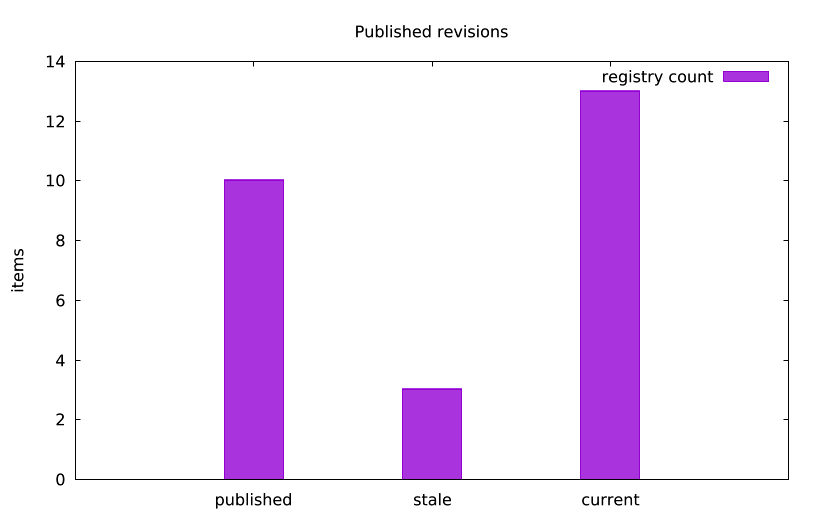
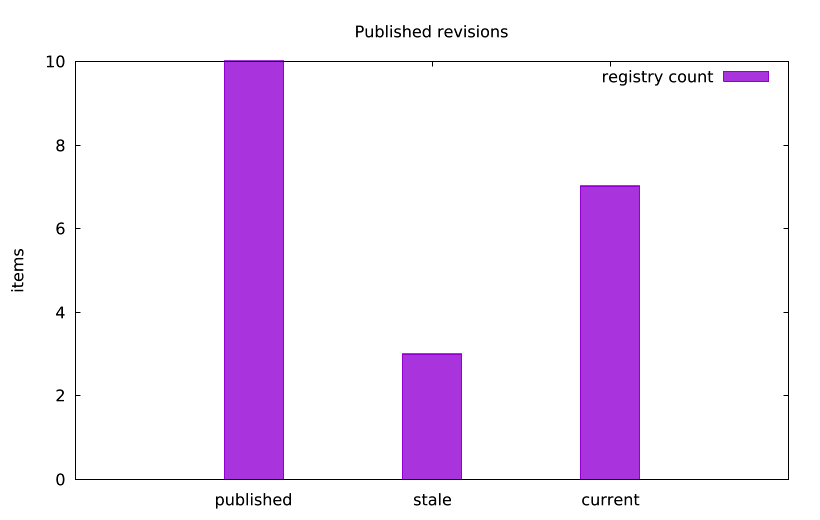
Make crash evidence and gallery counts reflect confirmed registry facts
Exercise real partial H2 writes, compaction interruption and write failure in
an isolated test FileStore bridge. Keep leases in persistent rows rather than
an unbounded owner-memory map. Reject conflicting batch outcomes atomically.
Derive gallery counts from actual observations and never pre-record a publication
that has no receipt.

Constraint: All faults and examples operate on throwaway synthetic local data
Confidence: high
Scope-risk: moderate
Tested: Managed core 55 assertions, journal 13 assertions; process fault harness 17 checks; gallery and six fake-publication scenarios
Not-tested: Final rebuilt native gate and five-platform dispatch pending

diff --git a/src/main/java/ai/lmctl/lmfiles/Store.java b/src/main/java/ai/lmctl/lmfiles/Store.java
@@ -17,6 +17,7 @@ public final class Store implements AutoCloseable {
     private final Path path;
     private final String namespace;
     private MVStore db;
+    private LmfilesFaultFileStore faultFile;
     private FileChannel lockChannel;
     private FileLock lock;
     private MVMap<Long,byte[]> items,events;
@@ -24,8 +25,8 @@ public final class Store implements AutoCloseable {
     private MVMap<String,String> meta,differences,frontier,claims,activeClaims,replay,dictionary;
     private boolean closed;
     private long examined;
-    private final Map<String,Long> deadlines=new HashMap<>();
-    private Map<String,Long> deadlineUndo;
+    private final String ownerEpoch=UUID.randomUUID().toString();
+    private final long ownerStarted=System.nanoTime();
     private final Set<Snapshot> snapshots=Collections.newSetFromMap(new IdentityHashMap<>());
 
     public Store(Path path,String namespace,String options) {
@@ -39,16 +40,19 @@ public final class Store implements AutoCloseable {
             try {lock=lockChannel.tryLock();}catch(OverlappingFileLockException e){throw new IllegalStateException("writer-busy");}
             if(lock==null)throw new IllegalStateException("writer-busy");
             // Default FileStore uses positional FileChannel I/O, never a mapped backend.
-            db=new MVStore.Builder().fileName(this.path.toString()).cacheSize((int)cache).compress().autoCommitDisabled().open();
+            String fault=System.getenv("LMFILES_KILL_POINT");
+            var builder=new MVStore.Builder().cacheSize((int)cache).compress().autoCommitDisabled();
+            if(Set.of("mid_commit","mid_compaction","disk_full").contains(fault==null?"":fault)){
+                faultFile=new LmfilesFaultFileStore(fault);faultFile.open(this.path.toString(),false,null);builder.fileStore(faultFile);
+            } else builder.fileName(this.path.toString());
+            db=builder.open();
             items=db.openMap("items");events=db.openMap("events");aliases=db.openMap("aliases");
             meta=db.openMap("meta");differences=db.openMap("differences");frontier=db.openMap("frontier");
             claims=db.openMap("claims");activeClaims=db.openMap("active_claims");replay=db.openMap("replay");dictionary=db.openMap("dictionary");
             if(!meta.containsKey("format")){meta.put("format","1");meta.put("epoch",UUID.randomUUID().toString());meta.put("next_item","0");meta.put("next_event","0");meta.put("next_dict","0");meta.put("next_fence","0");durable();}
             if(!"1".equals(meta.get("format")))throw new IllegalStateException("unsupported-registry-format");
-            // Restart cannot establish elapsed wall time. Conservatively retain every saved
-            // lease for its full original duration from this monotonic owner epoch.
-            for(var c:claims.entrySet()){long duration=Long.parseLong(J.text(J.obj(c.getValue()),"lease_ms","86400000"));deadlines.put(c.getKey(),System.nanoTime()+duration*1000000);}
-            // Old tokens remain fenced once replaced; wall-clock jumps never steal a lease.
+            // Old leases are evaluated lazily against this monotonic owner epoch;
+            // opening a large registry never loads every claim into RAM.
         } catch(Exception e){cleanup();throw new IllegalStateException("cannot-open-registry: "+e.getMessage(),e);}
     }
     private static String required(String s,String field){if(s==null||s.isEmpty()||s.indexOf('\0')>=0)throw new IllegalArgumentException(field+" required, without NUL");return s;}
@@ -61,10 +65,8 @@ public final class Store implements AutoCloseable {
     private void check(){if(closed)throw new IllegalStateException("registry-closed");}
     private long next(String field){long n=Math.addExact(Long.parseLong(meta.getOrDefault(field,"0")),1);meta.put(field,Long.toString(n));return n;}
     private static void kill(String point){if(point.equals(System.getenv("LMFILES_KILL_POINT")))Runtime.getRuntime().halt(77);}
-    private void durable(){kill("before_commit");db.commit();db.sync();kill("after_commit");}
-    private void deadlinePut(String key,long value){if(deadlineUndo!=null&&!deadlineUndo.containsKey(key))deadlineUndo.put(key,deadlines.get(key));deadlines.put(key,value);}
-    private void deadlineRemove(String key){if(deadlineUndo!=null&&!deadlineUndo.containsKey(key))deadlineUndo.put(key,deadlines.get(key));deadlines.remove(key);}
-    private String mutate(Supplier<String> action){check();deadlineUndo=new HashMap<>();try{String r=action.get();durable();return r;}catch(RuntimeException|Error e){db.rollback();for(var entry:deadlineUndo.entrySet())if(entry.getValue()==null)deadlines.remove(entry.getKey());else deadlines.put(entry.getKey(),entry.getValue());throw e;}finally{deadlineUndo=null;}}
+    private void durable(){kill("before_commit");if(faultFile!=null&&!faultFile.point.equals("mid_compaction"))faultFile.armed=true;db.commit();db.sync();kill("after_commit");}
+    private String mutate(Supplier<String> action){check();try{String r=action.get();durable();return r;}catch(RuntimeException|Error e){db.rollback();throw e;}}
     private Map<String,Object> row(String id){byte[] b=items.get(id(id));if(b==null)throw new IllegalArgumentException("unknown-item");return decode(b);}
     private static long id(String s){try{long id=Long.parseLong(s);if(id<=0)throw new NumberFormatException();return id;}catch(NumberFormatException e){throw new IllegalArgumentException("invalid-item-id");}}
     private void save(String id,Map<String,Object> r){items.put(id(id),encode(r));}
@@ -80,7 +82,7 @@ public final class Store implements AutoCloseable {
         if(op.equals("doctor"))return doctor();
         if(op.equals("replay_seen"))return json(Map.of("digest",replay.getOrDefault(a[0],"")));
         if(op.equals("export_records"))return export(Path.of(a[0]));
-        if(op.equals("compact")){kill("before_compaction");db.compactFile(1000);db.sync();kill("after_compaction");return ok();}
+        if(op.equals("compact")){kill("before_compaction");if(faultFile!=null){db.setRetentionTime(0);faultFile.armed=true;}db.compactFile(1000);db.sync();kill("after_compaction");return ok();}
         if(op.equals("stats"))return ok("examined",Long.toString(examined),"items",Long.toString(items.sizeAsLong()),"events",Long.toString(events.sizeAsLong()));
         if(op.equals("apply_records")){try{return PlanLog.apply(this,Path.of(a[0]),Path.of(a[1]));}catch(IOException e){throw new UncheckedIOException(e);}}
         return mutate(()->change(op,a));
@@ -122,7 +124,7 @@ public final class Store implements AutoCloseable {
         String rev=required(text(result,"source_revision"),"source_revision");if(Long.parseLong(rev)<1||Long.parseLong(rev)>Long.parseLong(text(r,"revision")))throw new IllegalArgumentException("invalid-source-revision");
         if(result.containsKey("last_success"))throw new IllegalArgumentException("read-only-last-success");
         String d=stageId(stage,ns,text(result,"slot"),true);var all=stages(r);Map<String,Object> prev=all.containsKey(d)?map(all.get(d)):Map.of();
-        var p=new LinkedHashMap<String,Object>(result);p.remove("stage");p.remove("namespace");p.remove("slot");
+        var p=new LinkedHashMap<String,Object>(result);p.remove("stage");p.remove("namespace");p.remove("slot");p.putIfAbsent("timestamp",Instant.now().toString());Instant.parse(text(p,"timestamp"));
         Map<String,Object> success=map(prev.getOrDefault("last_success",Map.of()));
         if(status.equals("ok")&&(success.isEmpty()||Long.parseLong(rev)>=Long.parseLong(text(success,"source_revision"))))success=new LinkedHashMap<>(p);
         if(!success.isEmpty())p.put("last_success",success);
@@ -156,21 +158,21 @@ public final class Store implements AutoCloseable {
         long until=Math.addExact(System.currentTimeMillis(),lease);List<Object> out=new ArrayList<>();String prefix=index+"\0";Iterator<String> it=frontier.keyIterator(prefix);
         while(it.hasNext()&&out.size()<count){String k=it.next();if(!k.startsWith(prefix))break;String item=frontier.get(k),ck=json(List.of(work,item)),oldToken=activeClaims.get(ck);Map<String,Object> prev=oldToken==null?Map.of():J.obj(claims.get(oldToken));
             if(!prev.isEmpty()&&alive(oldToken))continue;
-            String token=UUID.randomUUID().toString()+":"+next("next_fence");Map<String,Object> c=Map.of("token",token,"item",item,"source_revision",text(row(item),"revision"),"owner",owner,"work",work,"until",Long.toString(until),"lease_ms",Long.toString(lease));
-            if(oldToken!=null){claims.remove(oldToken);deadlineRemove(oldToken);}claims.put(token,json(c));deadlinePut(token,System.nanoTime()+lease*1000000);activeClaims.put(ck,token);out.add(c);
+            String token=UUID.randomUUID().toString()+":"+next("next_fence");Map<String,Object> c=Map.of("token",token,"item",item,"source_revision",text(row(item),"revision"),"owner",owner,"work",work,"until",Long.toString(until),"lease_ms",Long.toString(lease),"owner_epoch",ownerEpoch,"deadline_ns",Long.toString(System.nanoTime()+lease*1000000));
+            if(oldToken!=null)claims.remove(oldToken);claims.put(token,json(c));activeClaims.put(ck,token);out.add(c);
         }
         return json(out);
     }
-    private boolean alive(String token){Long d=deadlines.get(token);return d!=null&&System.nanoTime()<d;}
+    private boolean alive(String token){String raw=claims.get(token);if(raw==null)return false;var c=J.obj(raw);long deadline=ownerEpoch.equals(text(c,"owner_epoch"))?Long.parseLong(text(c,"deadline_ns")):ownerStarted+Long.parseLong(text(c,"lease_ms"))*1000000;return System.nanoTime()<deadline;}
     private String finish(String op,String... a){
         String raw=claims.get(a[0]);if(raw==null)return outcome("fenced-or-expired");var c=J.obj(raw);String ck=json(List.of(text(c,"work"),text(c,"item")));
         if(!a[0].equals(activeClaims.get(ck))||!alive(a[0]))return outcome("fenced-or-expired");
-        if(op.equals("renew")){long lease=Long.parseLong(a[1]);if(lease<1||lease>86400000)throw new IllegalArgumentException("invalid-lease");c.put("until",Long.toString(Math.addExact(System.currentTimeMillis(),lease)));c.put("lease_ms",Long.toString(lease));deadlinePut(a[0],System.nanoTime()+lease*1000000);claims.put(a[0],json(c));return ok();}
+        if(op.equals("renew")){long lease=Long.parseLong(a[1]);if(lease<1||lease>86400000)throw new IllegalArgumentException("invalid-lease");c.put("until",Long.toString(Math.addExact(System.currentTimeMillis(),lease)));c.put("lease_ms",Long.toString(lease));c.put("owner_epoch",ownerEpoch);c.put("deadline_ns",Long.toString(System.nanoTime()+lease*1000000));claims.put(a[0],json(c));return ok();}
         if(op.equals("complete")){
             if(a.length<3||!a[2].equals(text(c,"source_revision"))||!a[2].equals(text(row(text(c,"item")),"revision")))return outcome("conflict");
             var result=J.obj(a[1]);if(!a[2].equals(text(result,"source_revision")))return outcome("conflict");record(text(c,"item"),result);
         }
-        claims.remove(a[0]);deadlineRemove(a[0]);activeClaims.remove(ck);return ok();
+        claims.remove(a[0]);activeClaims.remove(ck);return ok();
     }
 
     public synchronized Cursor query(String operation,String... args){
@@ -195,7 +197,7 @@ public final class Store implements AutoCloseable {
                 Object raw=J.parse(a[1]);if(!(raw instanceof List<?> ids))throw new IllegalArgumentException("ids must be array");if(ids.size()>4096)throw new IllegalArgumentException("subset-too-large: use bounded batches");
                 Map<String,Object> opts=J.obj(a[2]);keys(opts,"stage","namespace","slot","projection");
                 if(opts.containsKey("projection")&&!Set.of("last_success","latest_attempt").contains(text(opts,"projection")))throw new IllegalArgumentException("invalid-projection");
-                if(opts.containsKey("stage"))required(text(opts,"namespace"),"baseline namespace");
+                if(opts.containsKey("stage")){opts.putIfAbsent("namespace",a[0]);required(text(opts,"namespace"),"baseline namespace");}
                 source=ids.stream().map(x->compare(x,view,aliasView,opts)).iterator();
             } else if(op.equals("stage_difference")){
                 Map<String,Object> opts=J.obj(a[2]);keys(opts,"index","require_index","require_matching_source_revision");String name=required(text(opts,"index"),"index");
@@ -205,7 +207,9 @@ public final class Store implements AutoCloseable {
                 String prefix=name+"\0";Iterator<String> keys=fronts.keyIterator(prefix);
                 source=new Iterator<Object>(){String next;boolean ready;public boolean hasNext(){if(!ready&&keys.hasNext()){next=keys.next();ready=true;}return ready&&next.startsWith(prefix);}public Object next(){if(!hasNext())throw new NoSuchElementException();ready=false;examined++;return decode(view.get(id(fronts.get(next))));}};
             } else throw new IllegalArgumentException("unsupported-query: "+op);
-            return new Cursor(source,ownSnapshot?this:null);
+            Iterator<?> values=source;
+            Iterator<Object> guarded=new Iterator<>(){private void valid(){if(ended)throw new IllegalStateException("snapshot-closed");}public boolean hasNext(){valid();return values.hasNext();}public Object next(){valid();return values.next();}};
+            return new Cursor(guarded,ownSnapshot?this:null);
         }
         @Override public void close(){synchronized(Store.this){if(!ended){ended=true;db.deregisterVersionUsage(pin);snapshots.remove(this);}}}
     }
@@ -216,14 +220,14 @@ public final class Store implements AutoCloseable {
         if(bytes==null)return Map.of("identity",identity,"state","unknown","reason","no-item");
         var r=decode(bytes);Map<String,Object> out=new LinkedHashMap<>(r);
         Map<String,Object> stageViews=new TreeMap<>();for(var stage:stages(r).entrySet()){String names=meta.get("dict:"+stage.getKey());stageViews.put(names==null?stage.getKey():names,stage.getValue());}out.put("stages",stageViews);
-        out.put("state","unknown");out.put("reason","no-baseline");
+        out.put("state","unknown");out.put("reason","no-baseline");out.put("basis","none");
         if(opts.containsKey("stage")) {
             Map<String,Object> selector=new LinkedHashMap<>(opts);selector.putIfAbsent("projection","last_success");Map<String,Object> base=projection(r,selector);out.put("recorded",base);
             if(!base.isEmpty()){
                 Object observation=r.get("observation");
                 if(observation instanceof Map<?,?> o&&Boolean.FALSE.equals(o.get("present"))){out.put("state","recorded-but-missing-locally");out.put("reason","observed-absence");}
                 else if(!r.containsKey("content_hash")&&observation==null){out.put("reason","unobserved-local");}
-                else {out.put("state",text(base,"source_revision").equals(text(r,"revision"))?"same-as-recorded":"changed");out.put("reason","revision-comparison");}
+                else {Map<String,Object> fingerprint=map(base.getOrDefault("source_fingerprint",Map.of()));boolean digests=!text(fingerprint,"hash").isEmpty()&&!text(r,"content_hash").isEmpty();boolean same=digests?text(fingerprint,"hash").equals(text(r,"content_hash")):text(base,"source_revision").equals(text(r,"revision"));out.put("state",same?"same-as-recorded":"changed");out.put("reason",digests?"digest-comparison":"revision-comparison");out.put("basis",digests?"digest":"revision");}
             }
         }
         return out;
@@ -249,11 +253,11 @@ public final class Store implements AutoCloseable {
         private final Store store;private final List<Map<String,Object>> operations=new ArrayList<>();private boolean ended;private int bytes;
         Batch(Store store){this.store=store;}
         public Batch add(String operation){if(ended)throw new IllegalStateException("batch-closed");bytes=Math.addExact(bytes,operation.getBytes(StandardCharsets.UTF_8).length);if(bytes>Math.min(MAX_BATCH,Main.memoryBudget()/4))throw new IllegalArgumentException("batch-exceeds-LMFILES_MAX_MEMORY_MB");var op=J.obj(operation);keys(op,"op","args");required(text(op,"op"),"op");if(!(op.get("args") instanceof List<?>))throw new IllegalArgumentException("operation args must be array");operations.add(op);return this;}
-        public String commit(){if(ended)throw new IllegalStateException("batch-closed");synchronized(store){try{return store.mutate(()->{for(var op:operations){List<?> args=(List<?>)op.get("args");store.change(text(op,"op"),args.stream().map(x->{if(!(x instanceof String))throw new IllegalArgumentException("batch args must be strings");return (String)x;}).toArray(String[]::new));}return ok();});}finally{ended=true;operations.clear();}}}
+        public String commit(){if(ended)throw new IllegalStateException("batch-closed");synchronized(store){try{return store.mutate(()->{for(var op:operations){List<?> args=(List<?>)op.get("args");String result=store.change(text(op,"op"),args.stream().map(x->{if(!(x instanceof String))throw new IllegalArgumentException("batch args must be strings");return (String)x;}).toArray(String[]::new));Object receipt=J.parse(result);if(receipt instanceof Map<?,?> m&&m.containsKey("status")&&!"ok".equals(m.get("status")))throw new IllegalArgumentException("batch-operation-"+m.get("status"));}return ok();});}finally{ended=true;operations.clear();}}}
         public void rollback(){ended=true;operations.clear();}
         @Override public void close(){if(!ended)rollback();}
     }
-    private String doctor(){long rows=0;long pendingCount=0;for(var entry:items.entrySet()){Map<String,Object> r=decode(entry.getValue());if(!Long.toString(entry.getKey()).equals(text(r,"item")))throw new IllegalStateException("item-key-corrupt");for(var d:differences.entrySet()){boolean expected=pending(r,J.obj(d.getValue()));if(expected)pendingCount++;if(expected!=frontier.containsKey(frontierKey(d.getKey(),text(r,"item"))))throw new IllegalStateException("frontier-corrupt");}rows++;}if(pendingCount!=frontier.sizeAsLong())throw new IllegalStateException("orphan-frontier");for(var e:events.entrySet())if(!e.getKey().toString().equals(text(decode(e.getValue()),"sequence")))throw new IllegalStateException("event-sequence-corrupt");for(var a:aliases.entrySet())if(!items.containsKey(a.getValue()))throw new IllegalStateException("dangling-alias");return ok("items",Long.toString(rows),"events",Long.toString(events.sizeAsLong()),"examined",Long.toString(examined),"storage","MVStore positional I/O, compressed CRC32C binary records");}
+    private String doctor(){if(items.sizeAsLong()!=Long.parseLong(meta.get("next_item"))||events.sizeAsLong()!=Long.parseLong(meta.get("next_event")))throw new IllegalStateException("record-sequence-gap");long rows=0;long pendingCount=0;for(var entry:items.entrySet()){Map<String,Object> r=decode(entry.getValue());if(!Long.toString(entry.getKey()).equals(text(r,"item")))throw new IllegalStateException("item-key-corrupt");for(var d:differences.entrySet()){boolean expected=pending(r,J.obj(d.getValue()));if(expected)pendingCount++;if(expected!=frontier.containsKey(frontierKey(d.getKey(),text(r,"item"))))throw new IllegalStateException("frontier-corrupt");}rows++;}if(pendingCount!=frontier.sizeAsLong())throw new IllegalStateException("orphan-frontier");for(var e:events.entrySet())if(!e.getKey().toString().equals(text(decode(e.getValue()),"sequence")))throw new IllegalStateException("event-sequence-corrupt");for(var a:aliases.entrySet())if(!items.containsKey(a.getValue()))throw new IllegalStateException("dangling-alias");return ok("items",Long.toString(rows),"events",Long.toString(events.sizeAsLong()),"examined",Long.toString(examined),"storage","MVStore positional I/O, compressed CRC32C binary records");}
     public boolean doctorStatus(){return "ok".equals(text(J.obj(doctor()),"status"));}
     private String export(Path out){
         try {
@@ -274,9 +278,9 @@ public final class Store implements AutoCloseable {
     private String restore(Path input){
         if(!items.isEmpty())throw new IllegalArgumentException("import-requires-empty-registry");long rows=0;boolean end=false;
         try(var lines=Files.newBufferedReader(input)){
-            String first=lines.readLine();if(first==null||!"snapshot".equals(text(J.obj(first),"kind"))||!"1".equals(J.text(J.obj(first),"format","")))throw new IllegalArgumentException("snapshot-header");
-            String line;while((line=lines.readLine())!=null){Map<String,Object> r=J.obj(line);
-                if("end".equals(text(r,"kind"))){if(Long.parseLong(text(r,"rows"))!=rows||lines.readLine()!=null)throw new IllegalArgumentException("snapshot-count");end=true;break;}
+            String first=boundedLine(lines);if(first==null||!"snapshot".equals(text(J.obj(first),"kind"))||!"1".equals(J.text(J.obj(first),"format","")))throw new IllegalArgumentException("snapshot-header");
+            String line;while((line=boundedLine(lines))!=null){Map<String,Object> r=J.obj(line);
+                if("end".equals(text(r,"kind"))){if(Long.parseLong(text(r,"rows"))!=rows||boundedLine(lines)!=null)throw new IllegalArgumentException("snapshot-count");end=true;break;}
                 String checksum=text(r,"checksum");r.remove("checksum");if(!PlanLog.sha(json(r)).equals(checksum))throw new IllegalArgumentException("snapshot-checksum");
                 String name=text(r,"map"),key=text(r,"key");Object v=r.get("value");switch(name){
                     case "items","events" -> {byte[] bytes=Base64.getDecoder().decode(text(map(v),"base64"));decode(bytes);(name.equals("items")?items:events).put(Long.parseLong(key),bytes);}
@@ -289,6 +293,7 @@ public final class Store implements AutoCloseable {
         }catch(IOException e){throw new UncheckedIOException(e);}
         doctor();return ok("rows",Long.toString(rows));
     }
+    private static String boundedLine(BufferedReader reader)throws IOException {StringBuilder out=new StringBuilder();int c;long limit=Math.min(2L*MAX_RECORD,Main.memoryBudget()/4);while((c=reader.read())!=-1){if(c=='\n')return out.toString();if(out.length()>=limit)throw new IllegalArgumentException("snapshot-line-exceeds-memory-budget");out.append((char)c);}return out.isEmpty()?null:out.toString();}
     private static byte[] encode(Map<String,Object> map){try{byte[] raw=json(map).getBytes(StandardCharsets.UTF_8);if(raw.length>Math.min(MAX_RECORD,Main.memoryBudget()/4))throw new IllegalArgumentException("record-exceeds-memory-budget");var zipped=new ByteArrayOutputStream();try(var out=new DeflaterOutputStream(zipped)){out.write(raw);}byte[] data=zipped.toByteArray();CRC32C crc=new CRC32C();crc.update(data);ByteBuffer b=ByteBuffer.allocate(12+data.length);b.putInt(1).putInt(raw.length).putInt((int)crc.getValue()).put(data);return b.array();}catch(IOException e){throw new UncheckedIOException(e);}}
     private static Map<String,Object> decode(byte[] bytes){try{if(bytes.length<12)throw new IllegalStateException("record-truncated");ByteBuffer b=ByteBuffer.wrap(bytes);if(b.getInt()!=1)throw new IllegalStateException("record-version");int length=b.getInt(),check=b.getInt();if(length<0||length>MAX_RECORD)throw new IllegalStateException("record-length");byte[] data=Arrays.copyOfRange(bytes,12,bytes.length);CRC32C crc=new CRC32C();crc.update(data);if(check!=(int)crc.getValue())throw new IllegalStateException("record-checksum");try(var in=new InflaterInputStream(new ByteArrayInputStream(data))){byte[] raw=in.readNBytes(length+1);if(raw.length!=length)throw new IllegalStateException("record-size");return J.obj(new String(raw,StandardCharsets.UTF_8));}}catch(IOException e){throw new IllegalStateException("record-corrupt",e);}}
     private void cleanup(){try{if(db!=null)db.closeImmediately();}catch(Exception ignored){}try{if(lock!=null)lock.release();}catch(Exception ignored){}try{if(lockChannel!=null)lockChannel.close();}catch(Exception ignored){}}

diff --git a/src/main/java/ai/lmctl/lmfiles/Bench.java b/src/main/java/ai/lmctl/lmfiles/Bench.java
@@ -33,16 +33,19 @@ public final class Bench {
                 batch.commit();
             }
         }
-        long buildNs=System.nanoTime()-start,queryNs;int pending=0;String doctor;
+        long buildNs=System.nanoTime()-start,queryNs,subsetNs;int subsetRows=0;int pending=0;String doctor;
         try(Store s=new Store(path,"benchmark","{}")) {
             long t=System.nanoTime();
             try(Store.Cursor c=s.query("stage_difference",a,b,J.str(Map.of("index",index,"require_index",true,"require_matching_source_revision",true)))) {
                 while(true){Object page=J.parse(c.nextJson(256,1048576));List<?> rows=(List<?>)page;if(rows.isEmpty())break;pending+=rows.size();}
             }
-            queryNs=System.nanoTime()-t;doctor=s.call("doctor","{}");
+            queryNs=System.nanoTime()-t;
+            long subsetStart=System.nanoTime();
+            for(int offset=0;offset<Math.min(count,1000);offset+=256){var ids=new ArrayList<String>();for(int n=offset;n<Math.min(Math.min(count,1000),offset+256);n++)ids.add(Integer.toString((int)((long)n*7919%count)+1));try(Store.Cursor c=s.query("query_subset","benchmark",J.str(ids),"{}")){while(true){List<?> rows=(List<?>)J.parse(c.nextJson(256,1048576));if(rows.isEmpty())break;subsetRows+=rows.size();}}}
+            subsetNs=System.nanoTime()-subsetStart;doctor=s.call("doctor","{}");
         }
         if(pending!=Math.max(1,count/100))throw new IllegalStateException("benchmark frontier wrong: "+pending);
         long bytes=Files.size(path);
-        return J.str(Map.of("profile","three explicit aliases plus identity index, five stages, six events/item before pending updates; compact synthetic metadata", "items",count,"disk_bytes",Long.toString(bytes),"bytes_per_item",(double)bytes/count,"build_seconds",buildNs/1e9,"pending",pending,"reopen_query_ms",queryNs/1e6,"doctor",J.parse(doctor),"scope","local measured workload, not 100M qualification"));
+        Map<String,Object> report=new LinkedHashMap<>();report.put("subset_queries",subsetRows);report.put("subset_query_ms",subsetNs/1e6);report.putAll(Map.of("profile","three explicit aliases plus identity index, five stages, six events/item before pending updates; compact synthetic metadata", "items",count,"disk_bytes",Long.toString(bytes),"bytes_per_item",(double)bytes/count,"build_seconds",buildNs/1e9,"pending",pending,"reopen_query_ms",queryNs/1e6,"doctor",J.parse(doctor),"scope","local measured workload, not 100M qualification"));return J.str(report);
     }
 }

diff --git a/src/main/java/ai/lmctl/lmfiles/PlanLogChecks.java b/src/main/java/ai/lmctl/lmfiles/PlanLogChecks.java
@@ -25,6 +25,13 @@ public final class PlanLogChecks {
             rejects(()->{try{PlanLog.apply(s,plan,bad);}catch(java.io.IOException e){throw new RuntimeException(e);}},"wrong digest");
             Path outside=work.resolve("outside.jsonl");var rogue=instruction("outside",item);PlanLog.append(outside,J.str(receipt(rogue,"outside",item,PlanLog.instructionDigest(rogue))),"{}");
             rejects(()->{try{PlanLog.apply(s,plan,outside);}catch(java.io.IOException e){throw new RuntimeException(e);}},"out of plan");
+            Path conflict=work.resolve("conflict.jsonl");PlanLog.append(conflict,J.str(r),"{}");
+            var different=new LinkedHashMap<String,Object>(receipt(p,"different-id",item,PlanLog.instructionDigest(p)));
+            var differentPayload=new LinkedHashMap<String,Object>(io.lmctl.lmcode.Json.object(different.get("payload")));
+            var differentProjection=new LinkedHashMap<String,Object>(io.lmctl.lmcode.Json.object(differentPayload.get("projection")));differentProjection.put("metadata",Map.of("fixture","different"));differentPayload.put("projection",differentProjection);different.put("payload",differentPayload);PlanLog.append(conflict,J.str(different),"{}");
+            rejects(()->{try{PlanLog.apply(s,plan,conflict);}catch(java.io.IOException e){throw new RuntimeException(e);}},"conflicting completion");
+            Path impostor=work.resolve("impostor.jsonl");var wrongItem=new LinkedHashMap<String,Object>(different);var wrongPayload=new LinkedHashMap<String,Object>(differentPayload);var wrongProjection=new LinkedHashMap<String,Object>(differentProjection);wrongProjection.put("item","999");wrongPayload.put("projection",wrongProjection);wrongItem.put("payload",wrongPayload);PlanLog.append(impostor,J.str(wrongItem),"{}");
+            rejects(()->{try{PlanLog.apply(s,plan,impostor);}catch(java.io.IOException e){throw new RuntimeException(e);}},"projection outside planned item");
             Path corrupt=work.resolve("corrupt.jsonl");Files.writeString(corrupt,Files.readString(plan).replace("fixture","changed"));
             rejects(()->{try{PlanLog.unconfirmed(corrupt,outside,remain);}catch(java.io.IOException e){throw new RuntimeException(e);}},"CRC");
             Path bytes=work.resolve("bytes.jsonl");var raw=new LinkedHashMap<String,Object>(p);raw.put("raw_path",Map.of("base64","/w=="));PlanLog.append(bytes,J.str(raw),"{}");ok(Files.readString(bytes).contains("/w=="),"non UTF8 bytes preserved");

diff --git a/src/main/java/ai/lmctl/lmfiles/CoreChecks.java b/src/main/java/ai/lmctl/lmfiles/CoreChecks.java
@@ -16,6 +16,9 @@ public final class CoreChecks {
    String one=id(s.call("item_upsert","{\"id\":\"law-1\"}","{\"title\":\"fixture\"}"));ok(!one.isEmpty(),"dense item");
    reject(()->s.call("alias_add","999","{\"kind\":\"url\",\"namespace\":\"source\",\"value\":\"u\"}"),"unknown alias");
    String a="{\"kind\":\"url\",\"namespace\":\"source\",\"value\":\"https://fixture/law-1\"}";ok("ok".equals(st(s.call("alias_add",one,a))),"alias add");String two=id(s.call("item_upsert","{\"id\":\"law-2\"}","{}"));ok("conflict".equals(st(s.call("alias_add",two,a))),"alias collision");ok("conflict".equals(st(s.call("alias_remove",two,a))),"wrong owner remove");ok("ok".equals(st(s.call("alias_remove",one,a))),"owner remove");
+   s.call("alias_add",one,a);
+   try(Store.Batch b=s.begin()){b.add(J.str(Map.of("op","item_upsert","args",List.of("{\"id\":\"law-1\"}","{\"title\":\"must-rollback\"}"))));b.add(J.str(Map.of("op","alias_add","args",List.of(two,a))));reject(b::commit,"batch conflict");}
+   ok(!page(s.query("query_subset","checks","[\"1\"]","{}")).contains("must-rollback"),"conflicting batch all-or-nothing");
    s.call("observe",one,"{\"present\":true,\"size\":10,\"hash\":\"aaa\"}");reject(()->s.call("item_upsert","{\"id\":\"law-1\"}","{\"item\":\"999\",\"revision\":\"999\"}"),"immutable revision");reject(()->s.call("stage_record",one,"{\"stage\":\"fetched\",\"namespace\":\"source\",\"status\":\"bad\",\"source_revision\":\"1\"}"),"invalid status");reject(()->s.call("stage_record",one,"{\"stage\":\"fetched\",\"namespace\":\"source\",\"status\":\"ok\"}"),"missing revision");
    s.call("stage_record",one,sr("fetched","source","ok","2"));String d=s.call("difference_index","{\"stage\":\"fetched\",\"namespace\":\"source\",\"status\":\"ok\"}","{\"stage\":\"cleaned\",\"namespace\":\"clean\",\"status\":\"ok\"}","{\"id\":\"fetch-clean\",\"require_matching_source_revision\":true}");ok("ok".equals(st(d)),"named index");
    String A="{\"stage\":\"fetched\",\"namespace\":\"source\",\"status\":\"ok\"}",B="{\"stage\":\"cleaned\",\"namespace\":\"clean\",\"status\":\"ok\"}";

diff --git a/scripts/test-processes.py b/scripts/test-processes.py
@@ -84,12 +84,12 @@ def main() -> int:
 
         # A kill at each commit boundary must leave a valid same-DB state. The
         # after-commit point may contain the row; before-commit must not.
-        for point, expect_item in (("before_commit", False), ("after_commit", True)):
+        for point, expect_item in (("before_commit", False), ("mid_commit", False), ("after_commit", True), ("disk_full",False)):
             killed_db = root / f"kill-{point}.mv"
             call("--request", str(killed_db), "doctor")
             killed = call("--request", str(killed_db), "item_upsert", identity, fields,
                           env={"LMFILES_KILL_POINT": point}, check=False)
-            assert killed.returncode == 77, killed.stderr
+            assert killed.returncode == 77 if point!="disk_full" else killed.returncode!=0, killed.stderr
             check = call("--request", str(killed_db), "doctor")
             assert json.loads(check.stdout).get("status") == "ok"
             rows = call("--query", str(killed_db), "query_subset", "cli", json.dumps(["1"]), "{}").stdout
@@ -102,7 +102,8 @@ def main() -> int:
         # Compaction faults preserve a previously acknowledged generation.
         compact_db=root/'compact.mv'
         call('--request',str(compact_db),'item_upsert',identity,fields)
-        for point in ('before_compaction','after_compaction'):
+        for point in ('before_compaction','mid_compaction','after_compaction'):
+            call('--request',str(compact_db),'item_upsert',identity,fields)
             killed=call('--request',str(compact_db),'compact',env={'LMFILES_KILL_POINT':point},check=False)
             assert killed.returncode==77,killed.stderr
             assert json.loads(call('--request',str(compact_db),'doctor').stdout)['items']=='1'

diff --git a/src/main/java/ai/lmctl/lmfiles/Main.java b/src/main/java/ai/lmctl/lmfiles/Main.java
@@ -9,7 +9,7 @@ public final class Main {
   public static final String VERSION="0.1.0";
   private Main(){}
   public static long memoryBudget(){String v=System.getenv("LMFILES_MAX_MEMORY_MB");if(v==null)return 256L*1024*1024;try{long n=Long.parseLong(v);if(n<=0)throw new NumberFormatException();return Math.multiplyExact(n,1024L*1024);}catch(Exception e){throw new IllegalArgumentException("LMFILES_MAX_MEMORY_MB must be positive whole MiB");}}
-  public static void main(String[] args){int code;try{code=run(args);}catch(OutOfMemoryError e){System.err.println("lmfiles: LMFILES_MAX_MEMORY_MB memory budget exceeded");code=3;}catch(VmException e){System.err.println("lmfiles: "+e.getMessage());code=3;}catch(IllegalArgumentException e){System.err.println("lmfiles: "+e.getMessage());code=2;}catch(Exception e){String m=e.getMessage();System.err.println("lmfiles: "+(m==null?"registry operation failed ("+e.getClass().getSimpleName()+")":m));code=3;}if(code!=0)System.exit(code);}
+  public static void main(String[] args){int code;try{code=run(args);}catch(OutOfMemoryError e){System.err.println("lmfiles: LMFILES_MAX_MEMORY_MB memory budget exceeded");code=3;}catch(VmException e){System.err.println("lmfiles: "+e.getMessage());code=Arrays.asList(args).contains("--dsl")?Reports.error("load",e):3;}catch(IllegalArgumentException e){System.err.println("lmfiles: "+e.getMessage());code=2;}catch(Exception e){String m=e.getMessage();System.err.println("lmfiles: "+(m==null?"registry operation failed ("+e.getClass().getSimpleName()+")":m));code=3;}if(code!=0)System.exit(code);}
   static int run(String[] args)throws Exception{
     memoryBudget();
     if(args.length==0||args[0].equals("--help")){usage();return args.length==0?2:0;}

diff --git a/src/main/java/org/h2/mvstore/LmfilesFaultFileStore.java b/src/main/java/org/h2/mvstore/LmfilesFaultFileStore.java
@@ -1,0 +1,23 @@
+package org.h2.mvstore;
+
+import org.h2.mvstore.SingleFileStore;
+import org.h2.mvstore.SFChunk;
+import java.nio.ByteBuffer;
+import java.util.Map;
+
+/** Deterministic local test faults at actual H2 write boundaries; never enabled by default. */
+public final class LmfilesFaultFileStore extends SingleFileStore {
+    public boolean armed;
+    public final String point;
+    public LmfilesFaultFileStore(String point){super(Map.of());this.point=point;}
+    @Override protected void writeFully(SFChunk chunk,long position,ByteBuffer data){
+        if(armed){
+            armed=false;
+            if(point.equals("disk_full"))throw new IllegalStateException("injected-disk-full");
+            ByteBuffer prefix=data.duplicate();prefix.limit(prefix.position()+Math.max(1,prefix.remaining()/2));
+            super.writeFully(chunk,position,prefix);super.sync();
+            Runtime.getRuntime().halt(77);
+        }
+        super.writeFully(chunk,position,data);
+    }
+}

diff --git a/scripts/verify-deps.py b/scripts/verify-deps.py
@@ -6,4 +6,8 @@ root=Path(__file__).resolve().parents[1]
 lock=json.loads((root/'deps.lock').read_text())['h2']
 jar=Path.home()/'.m2/repository/com/h2database/h2/2.3.232/h2-2.3.232.jar'
 assert hashlib.sha256(jar.read_bytes()).hexdigest()==lock['sha256'], 'H2 jar differs from deps.lock'
-print('H2 2.3.232 bytes verified')
+import xml.etree.ElementTree as ET
+pom=ET.parse(root/'pom.xml').getroot();ns={'m':'http://maven.apache.org/POM/4.0.0'}
+h2=[d for d in pom.findall('m:dependencies/m:dependency',ns) if d.findtext('m:artifactId',namespaces=ns)=='h2'][0]
+assert h2.findtext('m:version',namespaces=ns)==lock['coordinate'].split(':')[-1], 'H2 pin drift'
+print('H2 2.3.232 bytes and POM pin verified')
